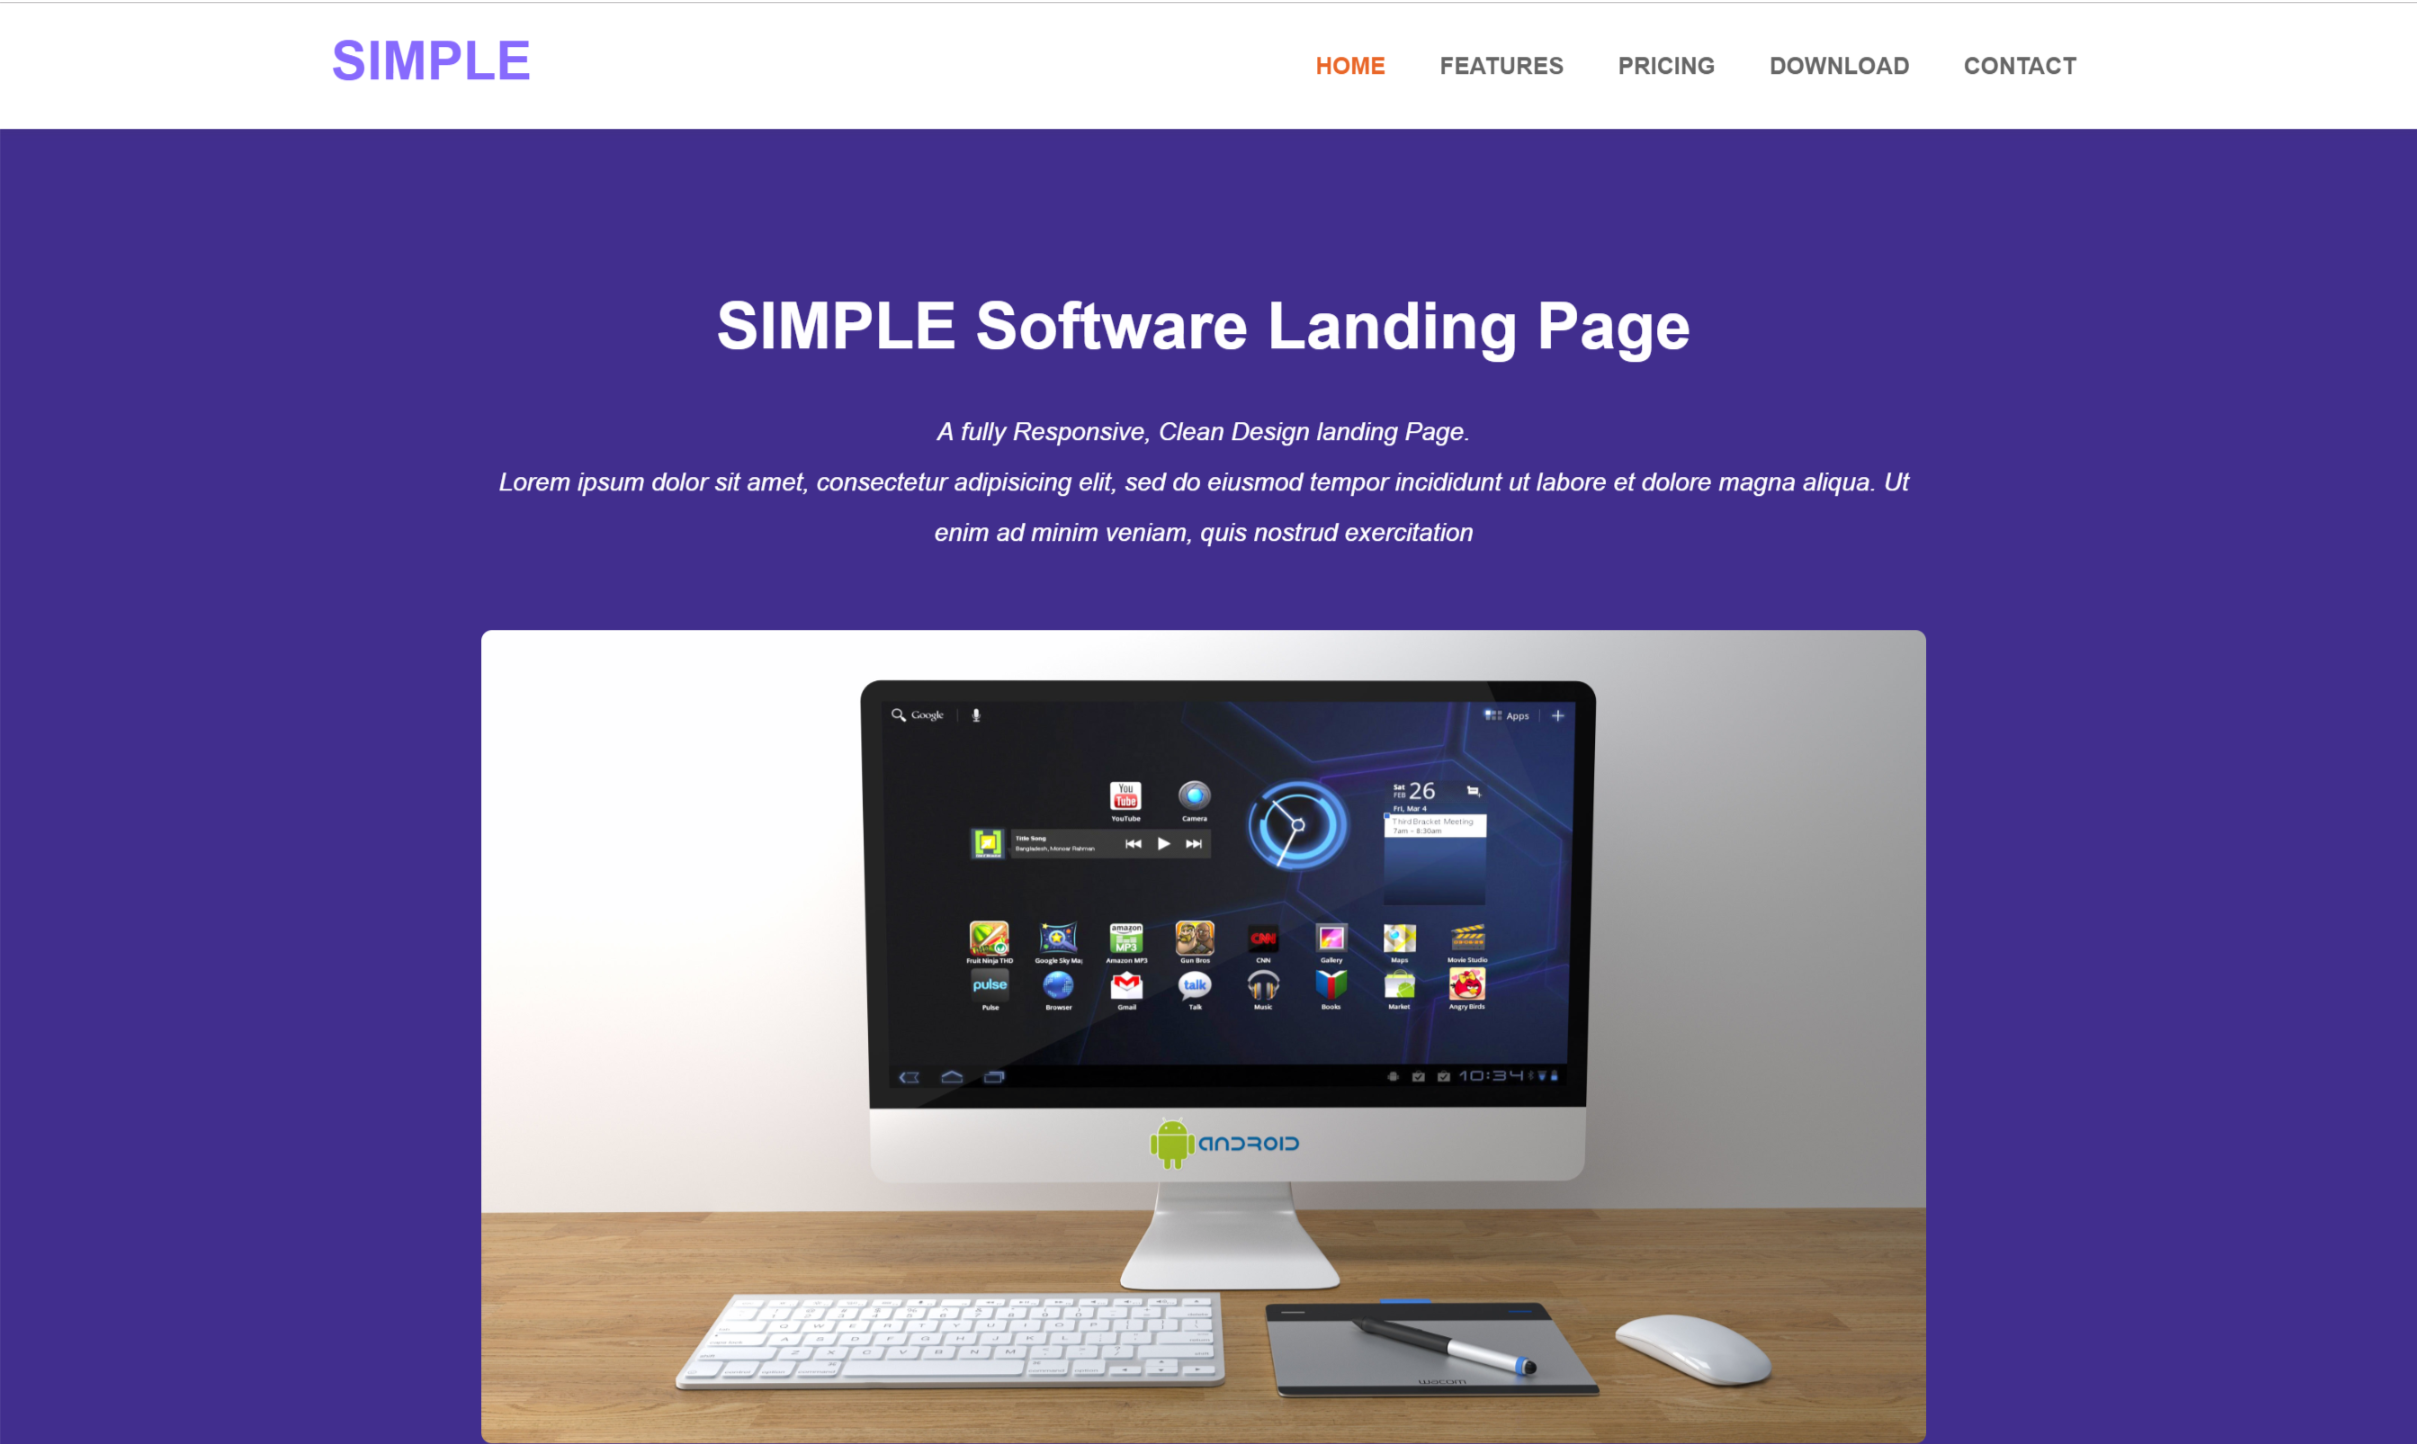
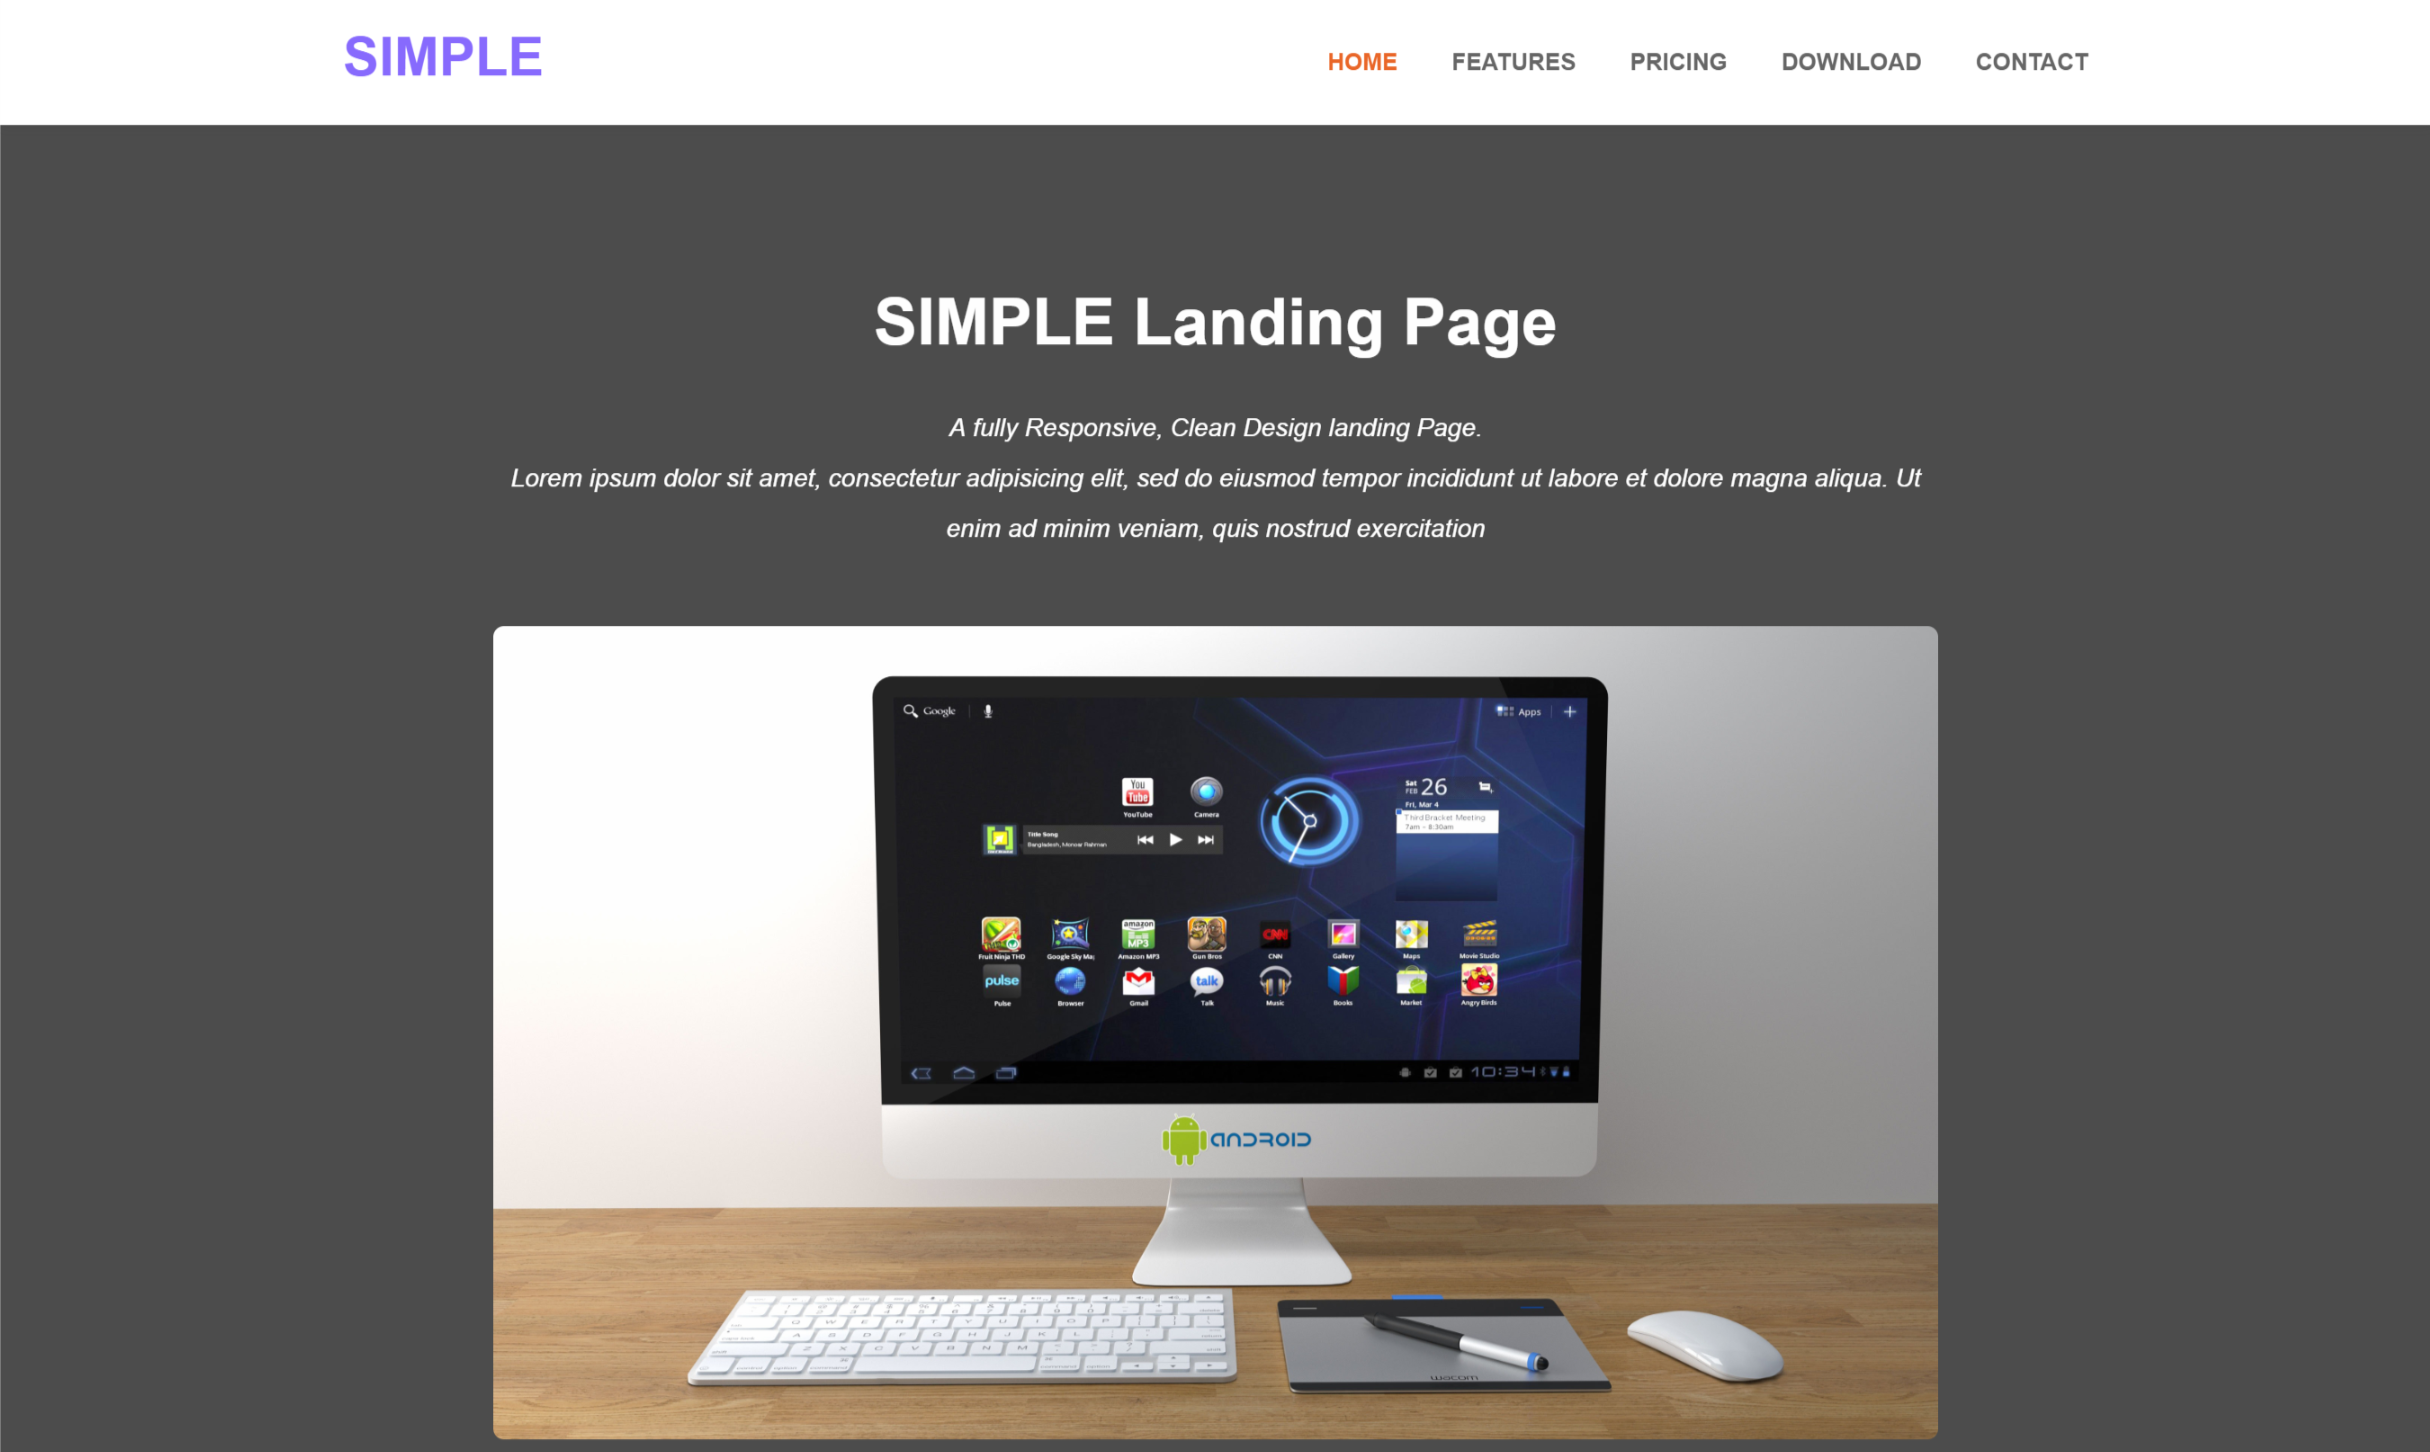
Update

diff --git a/index.html b/index.html
@@ -12,7 +12,7 @@
 		<link rel="stylesheet" href="assets/css/animate.min.css">
 		<link rel="stylesheet" href="assets/css/bootstrap.min.css">
 		<link rel="stylesheet" href="assets/css/font-awesome.min.css">
-		<link href='http://fonts.googleapis.com/css?family=Open+Sans:400,300,400italic,700,800' rel='stylesheet' type='text/css'>
+		<link href='//fonts.googleapis.com/css?family=Open+Sans:400,300,400italic,700,800' rel='stylesheet' type='text/css'>
 		<link rel="stylesheet" href="assets/css/style.css">
 
 	</head>
@@ -50,7 +50,7 @@
 					<div class="row">
 						<div class="col-md-1"></div>
 						<div class="col-md-10 wow fadeIn" data-wow-delay="0.3s">
-							<h1 class="text-upper">SIMPLE Software Landing Page</h1>
+							<h1 class="text-upper">SIMPLE Landing Page</h1>
 							<p class="white">A fully Responsive, Clean Design landing Page.<br />
 								Lorem ipsum dolor sit amet, consectetur adipisicing elit, sed do eiusmod tempor incididunt ut labore et dolore
 								magna aliqua. Ut enim ad minim veniam, quis nostrud exercitation

diff --git a/README.md b/README.md
@@ -1,1 +1,7 @@
-# simple-landing-page
+# SIMPLE landing page
+
+This is a simple, clean, responsive Bootstrap landing page for general use.
+
+![img](assets/img/screenshot.png)
+
+**Demo** <https://jgmuchiri.github.io/simple-landing-page/>
